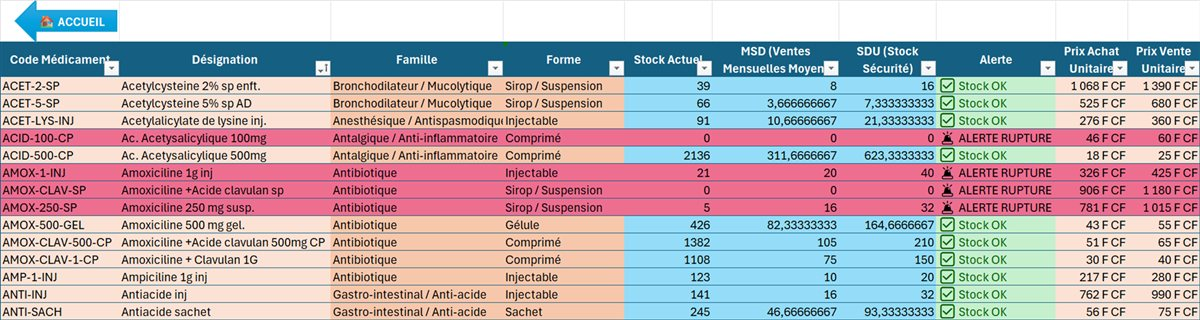
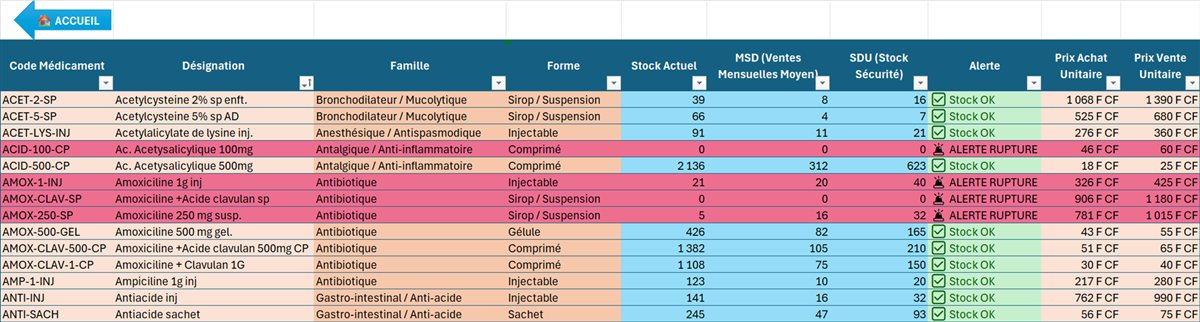
Logiciels : captures refaites avec GESTOPHARM V1.2 (affichage corrigé)

diff --git a/logiciels.html b/logiciels.html
@@ -107,7 +107,7 @@
                 </figure>
                 <figure class="screenshot">
                     <a href="img/logiciels/gestopharm-catalogue.jpg">
-                        <img src="img/logiciels/gestopharm-catalogue.jpg" width="1200" height="320" loading="lazy"
+                        <img src="img/logiciels/gestopharm-catalogue.jpg" width="1200" height="322" loading="lazy"
                              alt="Catalogue GESTOPHARM : stock actuel, consommation mensuelle, stock de sécurité et alerte par médicament">
                     </a>
                     <figcaption>Le catalogue : chaque médicament passe en rouge quand son stock descend sous le stock de sécurité.</figcaption>
